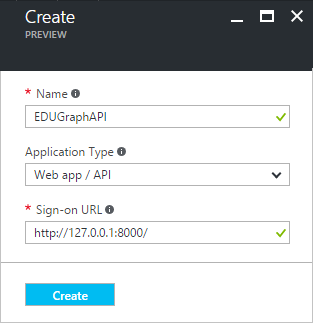
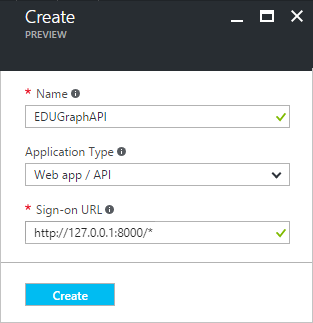
Update reply URLs

Changed region(s): [[0.0863, 0.6811, 0.4888, 0.743]]

diff --git a/README.md b/README.md
@@ -117,7 +117,7 @@ For production, you should you own certifcate:
 
 4. Input a **Name**, and select **Web app / API** as **Application Type**.
 
-   Input **Sign-on URL**: http://127.0.0.1:8000/
+   Input **Sign-on URL**: `http://127.0.0.1:8000/*`
 
    ![](Images/aad-create-app-02.png)
 
@@ -148,14 +148,6 @@ For production, you should you own certifcate:
 
      Click **Save**, then copy aside the **VALUE** of the key. 
 
-   - Click **Reply URLs**, then add the following two reply URLs:
-
-     - `http://127.0.0.1:8000/Auth/O365/Callback`
-     - `http://127.0.0.1:8000/Admin/ProcessCode`
-
-     ![](Images/aad-create-app-12.png)
-
-     Click **Save**.
 
    Close the Settings window.
 
@@ -321,15 +313,7 @@ The following softwares are required:
 
    ![](Images/azure-web-app.png)
 
-   Add two suffixes to the **URL** seperately:
-
-   * `/Auth/O365/Callback`
-   * `/Admin/ProcessCode`
-
-   We will get two reply URLs:
-
-   - `https://edugraphapi.azurewebsites.net/Auth/O365/Callback`
-   - `https://edugraphapi.azurewebsites.net/Admin/ProcessCode`
+   Copy the URL aside, then append `/*` . We get the reply URL `https://edugraphapi.azurewebsites.net/*`.
 
 3. Navigate to the app registration in the new Azure portal, then open the setting windows.
 
